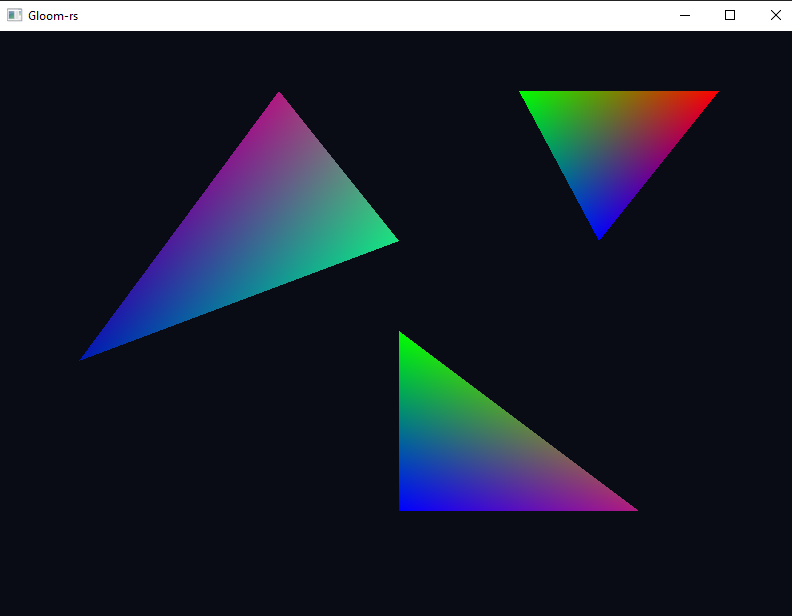
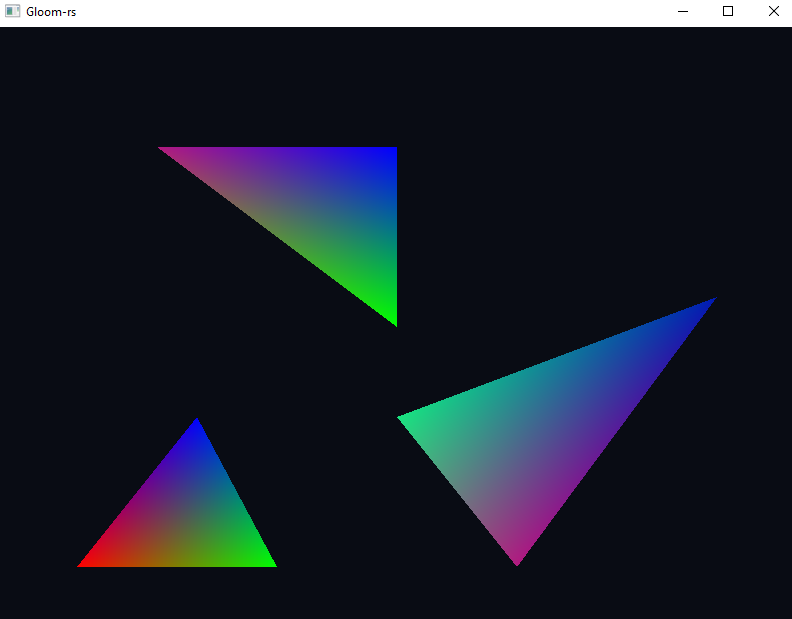
Assignment#2:task#3 done.
This is the new private repo.

diff --git a/src/main.rs b/src/main.rs
@@ -16,6 +16,7 @@ use std::sync::{Mutex, Arc, RwLock};
 mod shader;
 mod util;
 
+use gl::Uniform1f;
 use glutin::event::{Event, WindowEvent, DeviceEvent, KeyboardInput, ElementState::{Pressed, Released}, VirtualKeyCode::{self, *}};
 use glutin::event_loop::ControlFlow;
 
@@ -68,7 +69,6 @@ unsafe fn create_vao(vertices: &Vec<f32>, indices: &Vec<u32>, vertColors: &Vec<f
     let mut vbo_id:u32 = 0;
     gl::GenBuffers(1, &mut vbo_id);
     gl::BindBuffer(gl::ARRAY_BUFFER, vbo_id);
-
     // * Fill it with data
     gl::BufferData(
         gl::ARRAY_BUFFER,
@@ -76,8 +76,6 @@ unsafe fn create_vao(vertices: &Vec<f32>, indices: &Vec<u32>, vertColors: &Vec<f
         pointer_to_array(vertices), //vertices.as_ptr() as *const _ 
         gl::STATIC_DRAW
     );
-
-
     // * Configure a VAP for the data and enable it
     gl::VertexAttribPointer(
         0,
@@ -94,7 +92,6 @@ unsafe fn create_vao(vertices: &Vec<f32>, indices: &Vec<u32>, vertColors: &Vec<f
     let mut vbo2_id:u32 = 0;
     gl::GenBuffers(1, &mut vbo2_id);
     gl::BindBuffer(gl::ARRAY_BUFFER, vbo2_id);
-
     // * Fill it with data
     gl::BufferData(
         gl::ARRAY_BUFFER,
@@ -102,8 +99,6 @@ unsafe fn create_vao(vertices: &Vec<f32>, indices: &Vec<u32>, vertColors: &Vec<f
         pointer_to_array(vertColors), //vertices.as_ptr() as *const _ 
         gl::STATIC_DRAW
     );
-
-
     // * Configure a VAP for the colors of vertices and enable it
     gl::VertexAttribPointer(
         1,
@@ -197,6 +192,15 @@ fn main() {
 
         //Declaring verties as input buffers
         let vertices: Vec<f32> = vec![
+            /* -0.6, -0.6, 0.5,
+            0.6, -0.6, 0.5,
+            0.0, 0.6, 0.5,
+            -0.6, 0.4, 0.0,
+            0.0, -0.8, 0.0,
+            0.6, 0.4, 0.0,
+            -0.8, -0.1, 0.9,
+            0.4, -0.8, 0.9,
+            0.4, 0.6, 0.9,*/
             -0.8, -0.8, 0.0,
             -0.3, -0.8, 0.0,
             -0.5, -0.3, 0.0,
@@ -206,12 +210,6 @@ fn main() {
             0.0, 0.0, 0.0,
             0.0, 0.6, 0.0,
             -0.6, 0.6, 0.0,
-            /*-0.9, -0.2, 0.0,
-            -0.1, -0.2, 0.0,
-            -0.5, 0.3, 0.0, */
-            /* 0.6, -0.8, -1.2,
-            0.0, 0.4, 0.0,
-            -0.8, -0.2, 1.2, */
         ];
 
         //Declaring colors of all verties
@@ -224,12 +222,13 @@ fn main() {
             0.1, 0.9, 0.5, 1.0,
             0.0, 1.0, 0.0, 1.0,
             0.0, 0.0, 1.0, 1.0,
-            0.7, 0.1, 0.5, 1.0,
+            0.7, 0.1, 0.5, 1.0
         ];
 
         let indices: Vec<u32> = vec![
             0, 1, 2, 3, 4, 5, 6, 7, 8, 9, 10, 11, 12, 13, 14
         ];
+
 
         let my_vao = unsafe { create_vao(&vertices, &indices, &vertColors) };
 
@@ -315,6 +314,9 @@ fn main() {
                 // Clear the color and depth buffers
                 gl::ClearColor(0.035, 0.046, 0.078, 1.0); // night sky, full opacity
                 gl::Clear(gl::COLOR_BUFFER_BIT | gl::DEPTH_BUFFER_BIT);
+
+
+                gl::Uniform1f(2, elapsed.sin());
 
 
                 // == // Issue the necessary gl:: commands to draw your scene here
